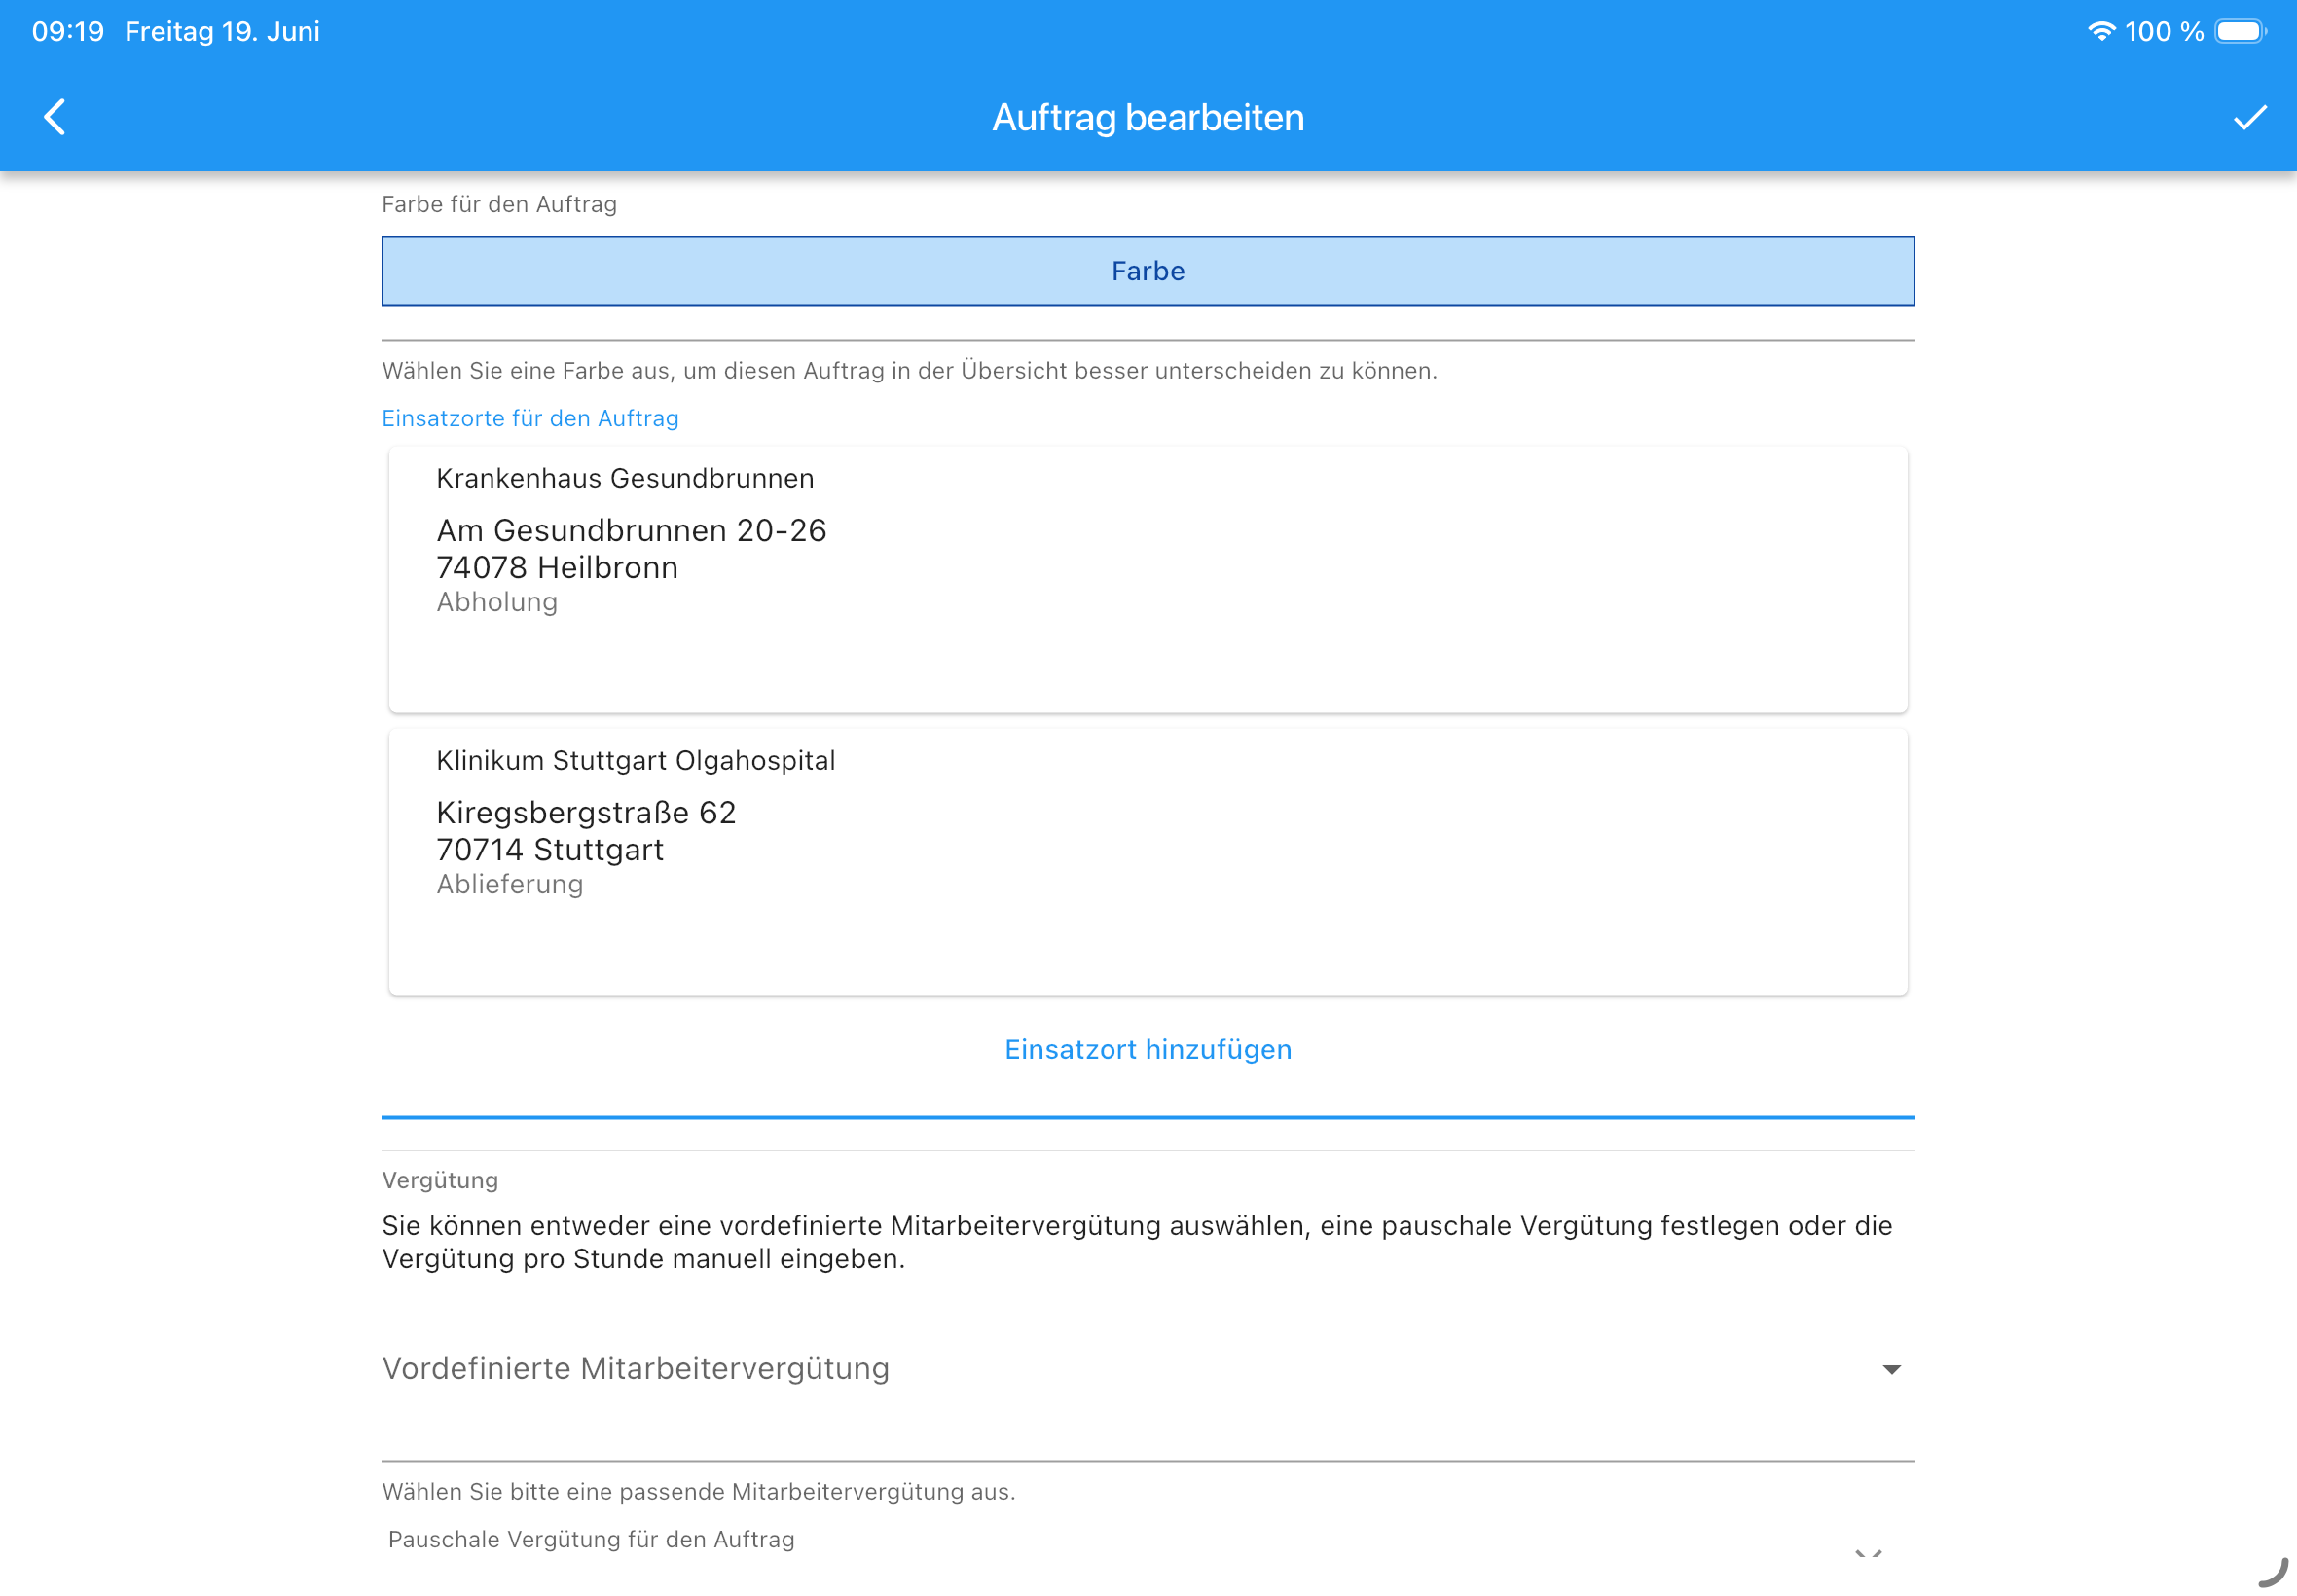
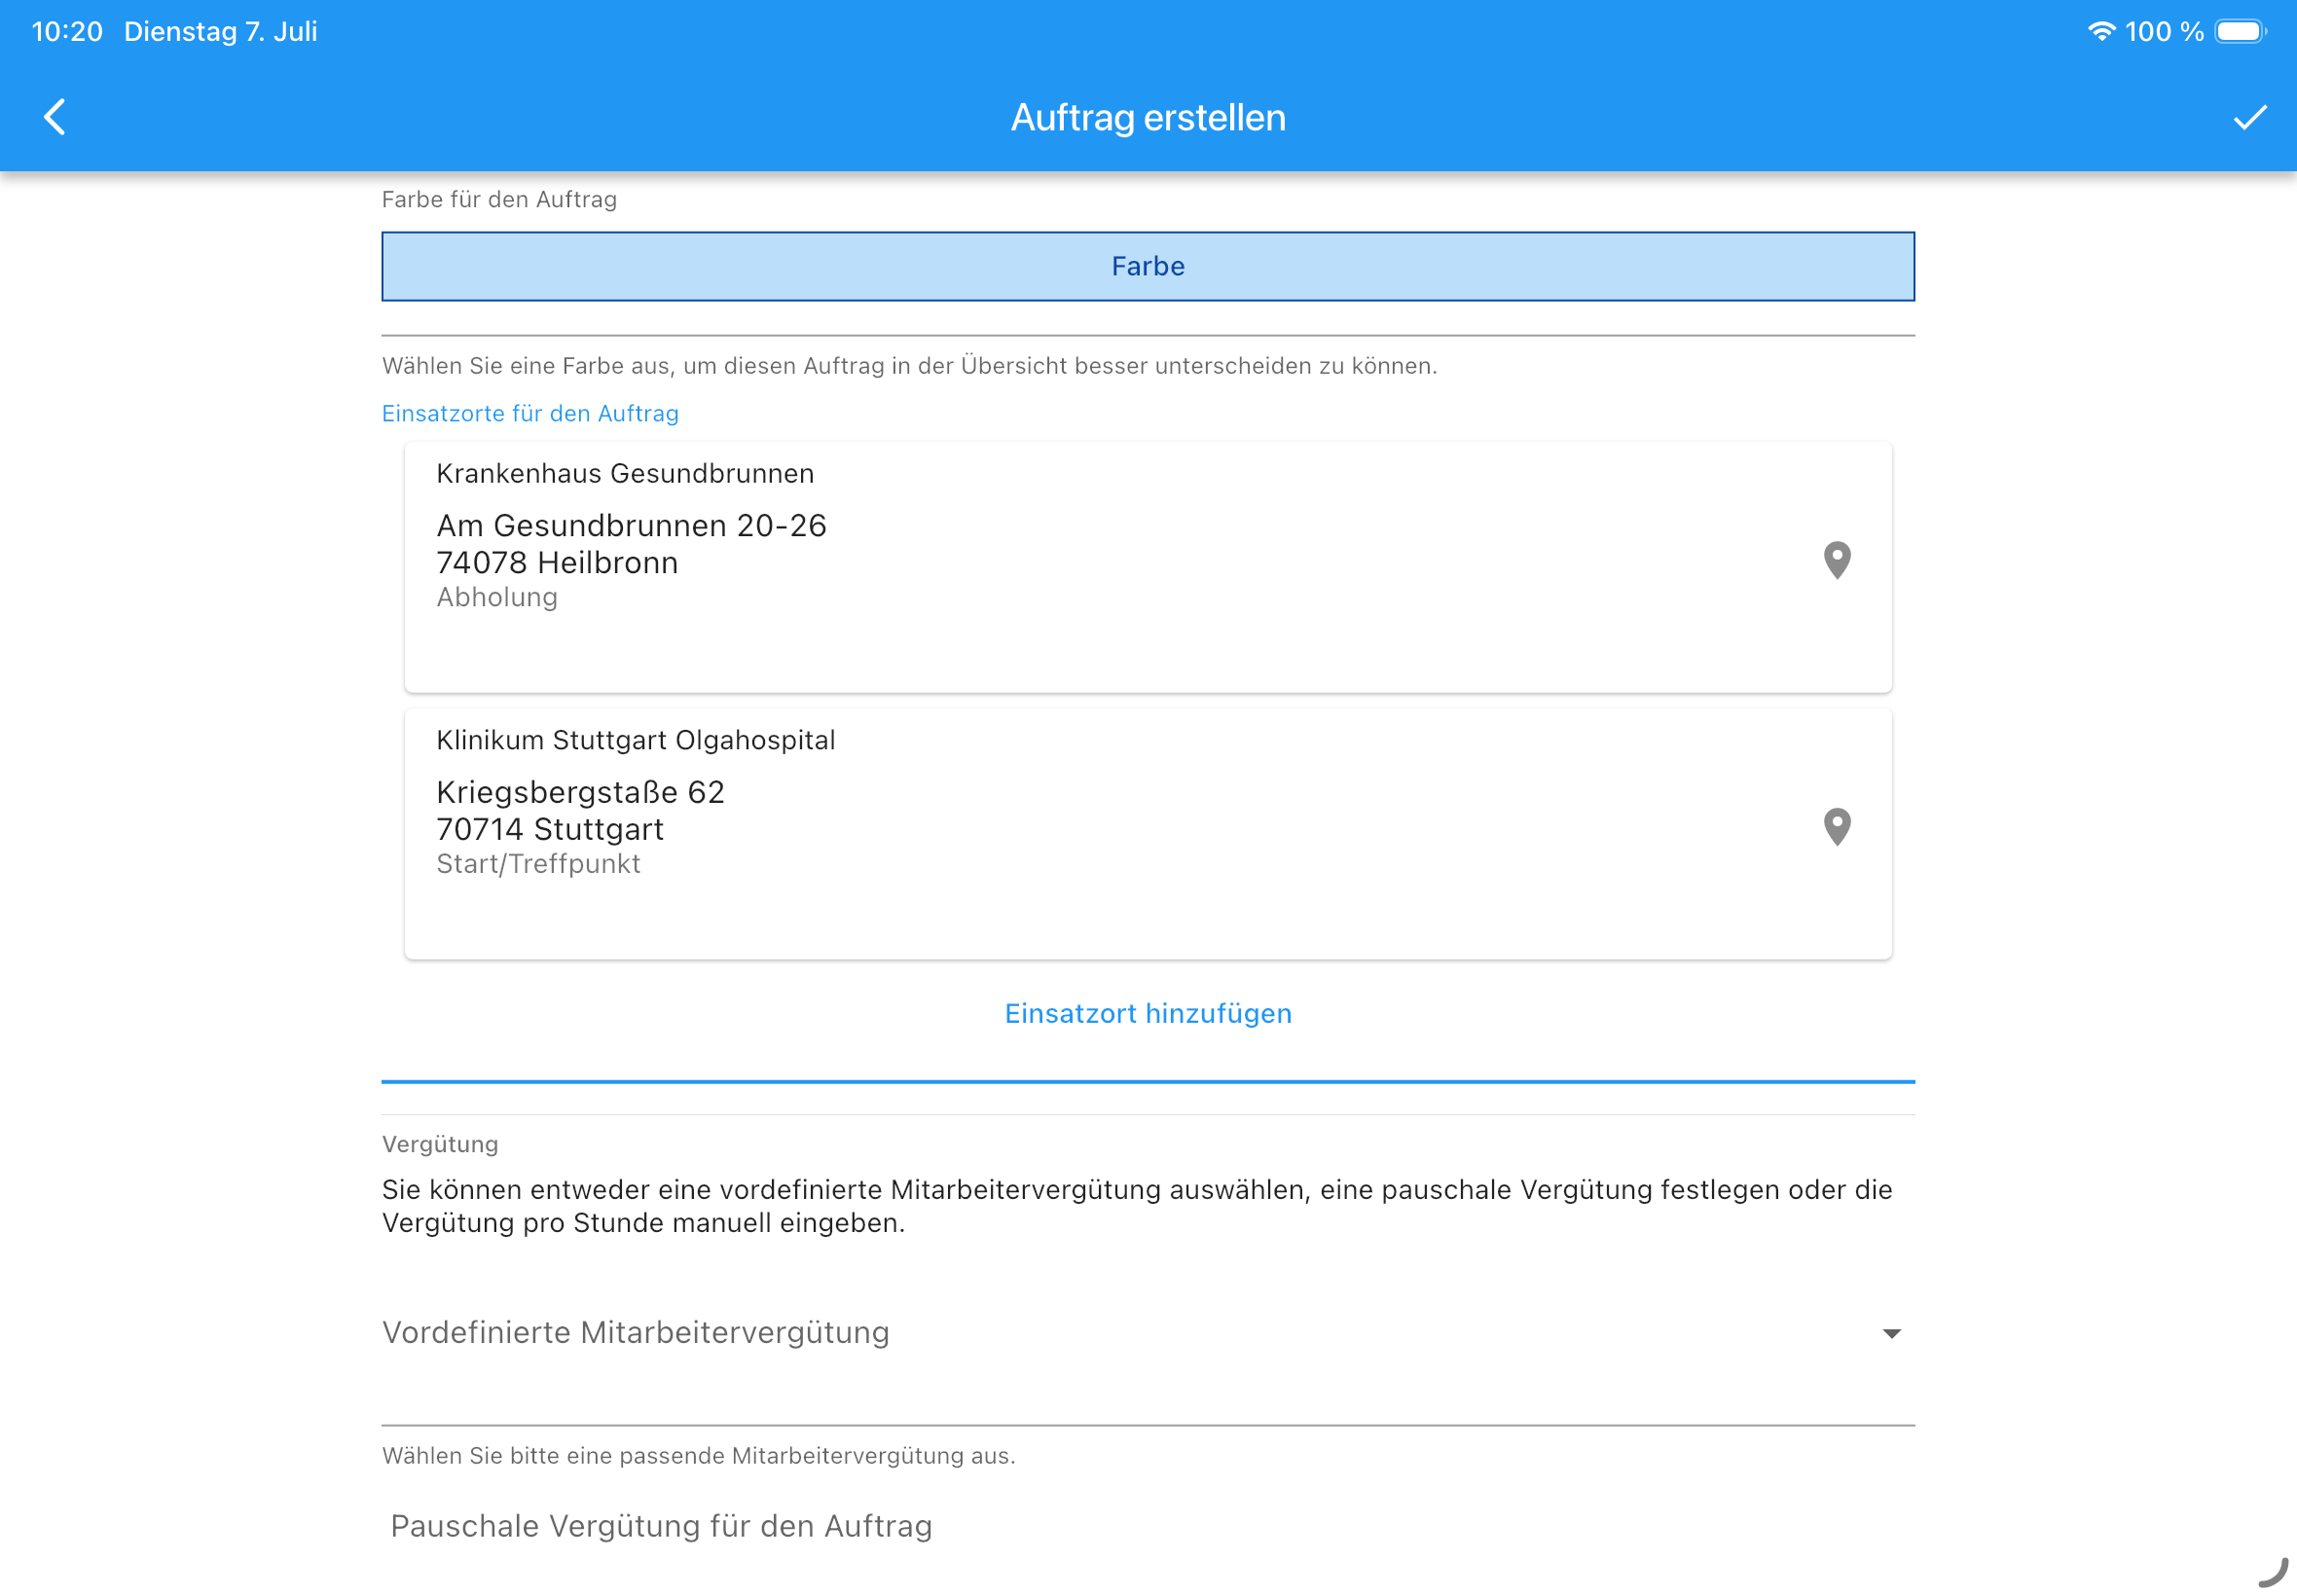
update docs on calendars

diff --git a/_handbuch/4_auftrag_erstellen.md b/_handbuch/4_auftrag_erstellen.md
@@ -7,6 +7,9 @@ date: 2026-06-19
 
 Mit der Auftragsverwaltung im Blaulichtplaner können Sie Aufträge/Dienste erstellen, die von einem Dienstplan, einem Standort und einem Arbeitsbereich unabhängig sind. Aufträge können beispielsweise für Krankentransporte, Auslandrückholungen, Veranstaltungen, Sondereinsätze oder andere Anlässe erstellt werden, die nicht in den regulären Dienstplan passen.
 
+Um den Überblick über die Aufträge zu behalten, werden die Aufträge in eigenen Kalendern gruppiert. Sie können im 
+Blaulichtplaner beliebig viele Auftragskalender erstellen, um die Aufträge zu organisieren. Sie können beispielsweise einen Kalender für Krankentransporte und einen weiteren Kalender für Veranstaltungen erstellen. Die Aufträge werden dann in den entsprechenden Kalendern angezeigt.
+
 Für die Zuordnung zu den Aufträgen ist hauptsächlich die Qualifikation der Mitarbeiter relevant. Daher können Sie bei der Erstellung eines Auftrags die benötigten Qualifikationen festlegen, damit sich nur Mitarbeiter mit den entsprechenden Qualifikationen auf den Auftrag bewerben können.
 Sie müssen die Mitarbeiter nicht einem Standort oder einem Arbeitsbereich zuordnen.
 